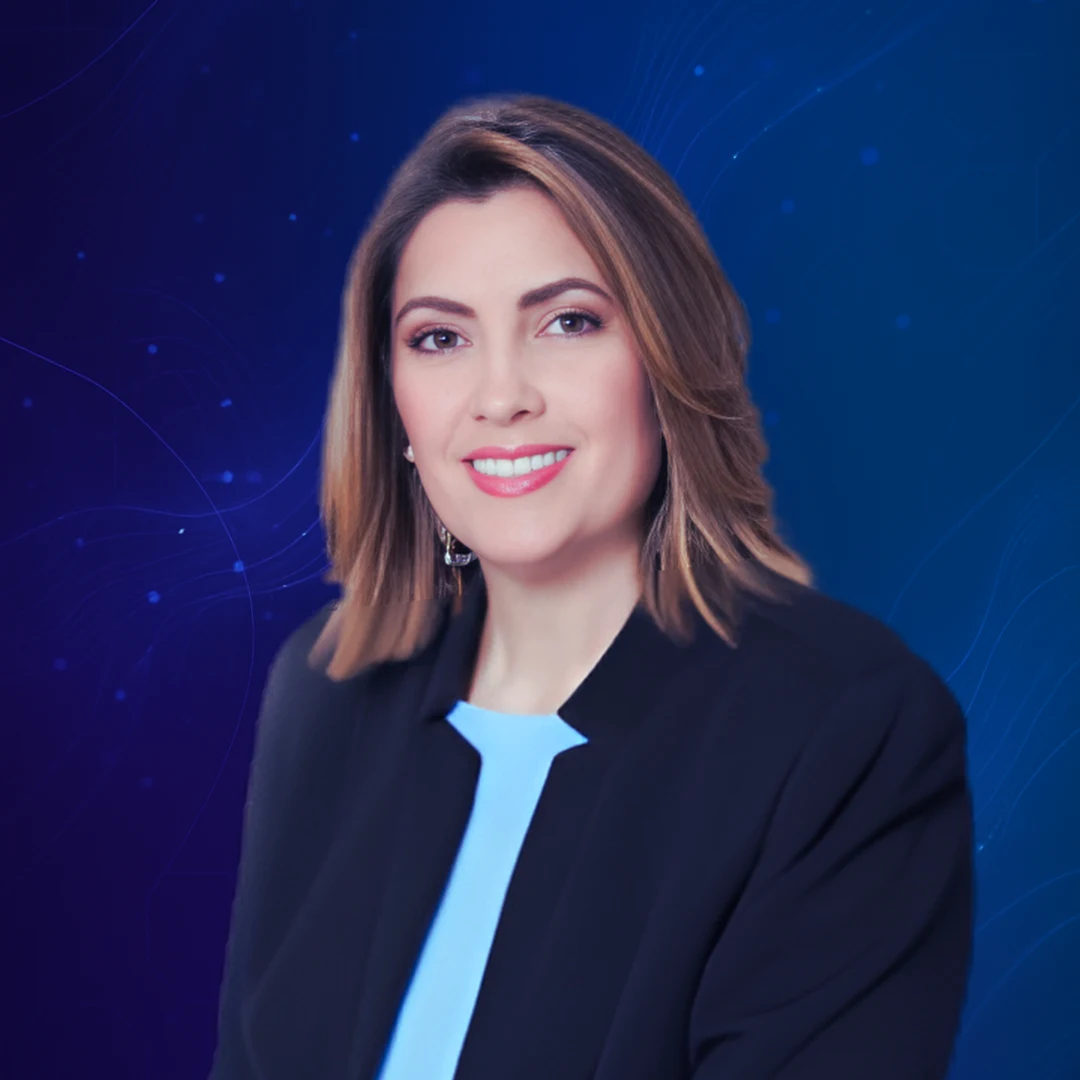
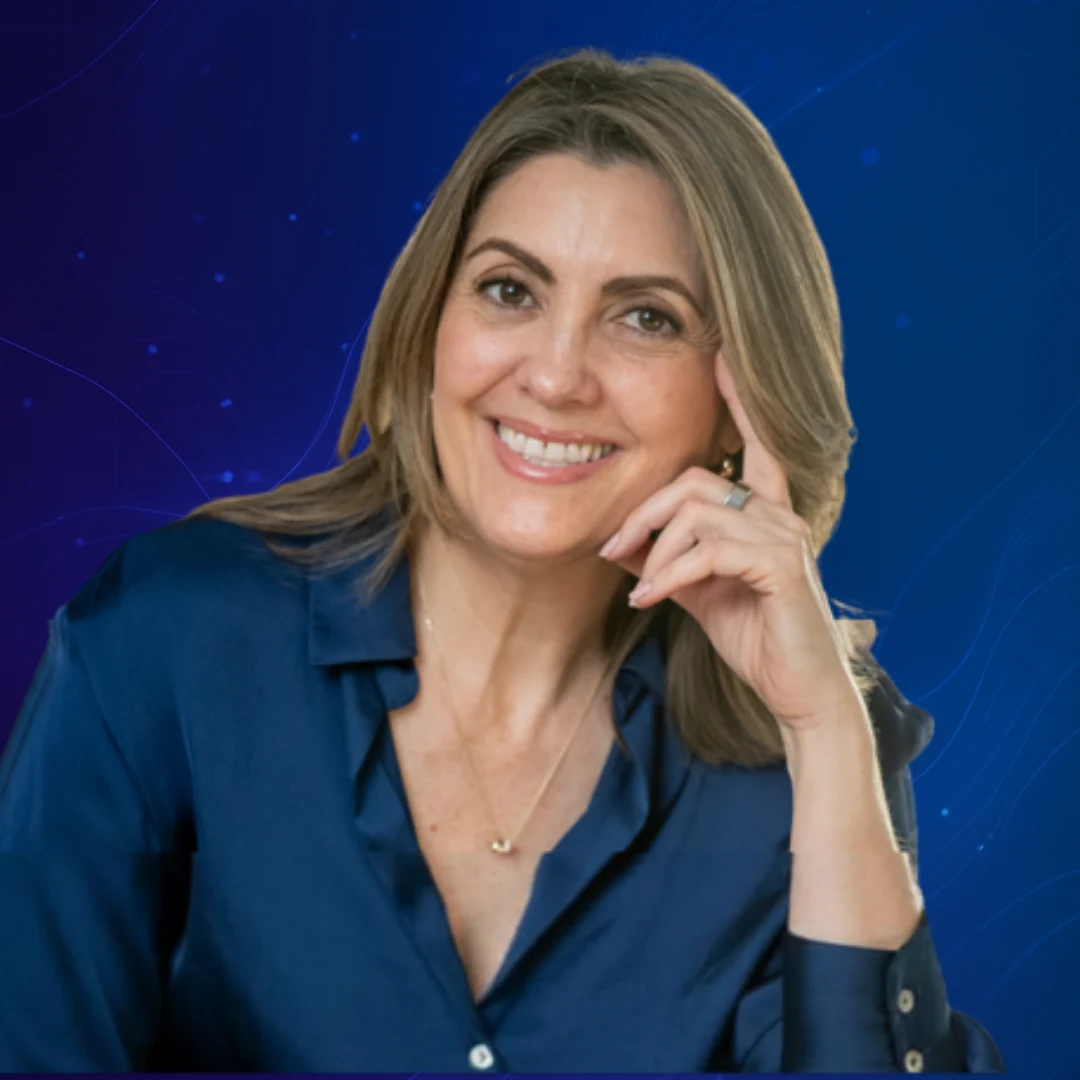
Replace Adriana's photo; add Jens Müller to the panel and speaker wall
Swap in Adriana's new headshot and add Jens Müller (Founder and CEO,
TBench.Solutions) as the third panelist on the Practical AI Strategies
panel, with a trimmed bio matching the others' length.

diff --git a/app/components/Speakers.tsx b/app/components/Speakers.tsx
@@ -50,6 +50,13 @@ const speakers: Speaker[] = [
     bio: "An entrepreneur and transformation leader, Marcin empowers businesses to scale with AI, innovation, and forward-thinking leadership.",
   },
   {
+    name: "Jens Müller",
+    title: "Founder and CEO, TBench.Solutions",
+    session: "Panel: Practical AI Strategies for Business Growth",
+    photo: "/speakers/jens-muller.webp",
+    bio: "Jens brings deep engineering expertise from the automotive industry, holding multiple patents and years of experience designing scalable, mission-critical systems. He is founder and CEO of TBench.Solutions, a gold-certified Preferred Design House of Infineon Technologies that provides consulting and system development for automotive and industrial applications and builds its own advanced boards for MCUs, APUs, and FPGAs.",
+  },
+  {
     name: "Lilia Restrepo",
     title: "Director, Business Intelligence, Kaufman Rossin",
     session: "AI Systems for Entrepreneurs",

diff --git a/app/components/Agenda.tsx b/app/components/Agenda.tsx
@@ -77,7 +77,7 @@ const agenda: AgendaItem[] = [
     title: "Designated AI",
     detail: "Panel Discussion: Practical AI Strategies for Business Growth.",
     speaker:
-      "Tarik Safouan, Director, Barry AI Center; Marcin Ladowski, President, Worldwise Ventures",
+      "Tarik Safouan, Director, Barry AI Center; Marcin Ladowski, President, Worldwise Ventures; Jens Müller, Founder and CEO, TBench.Solutions",
     highlight: true,
   },
   {
